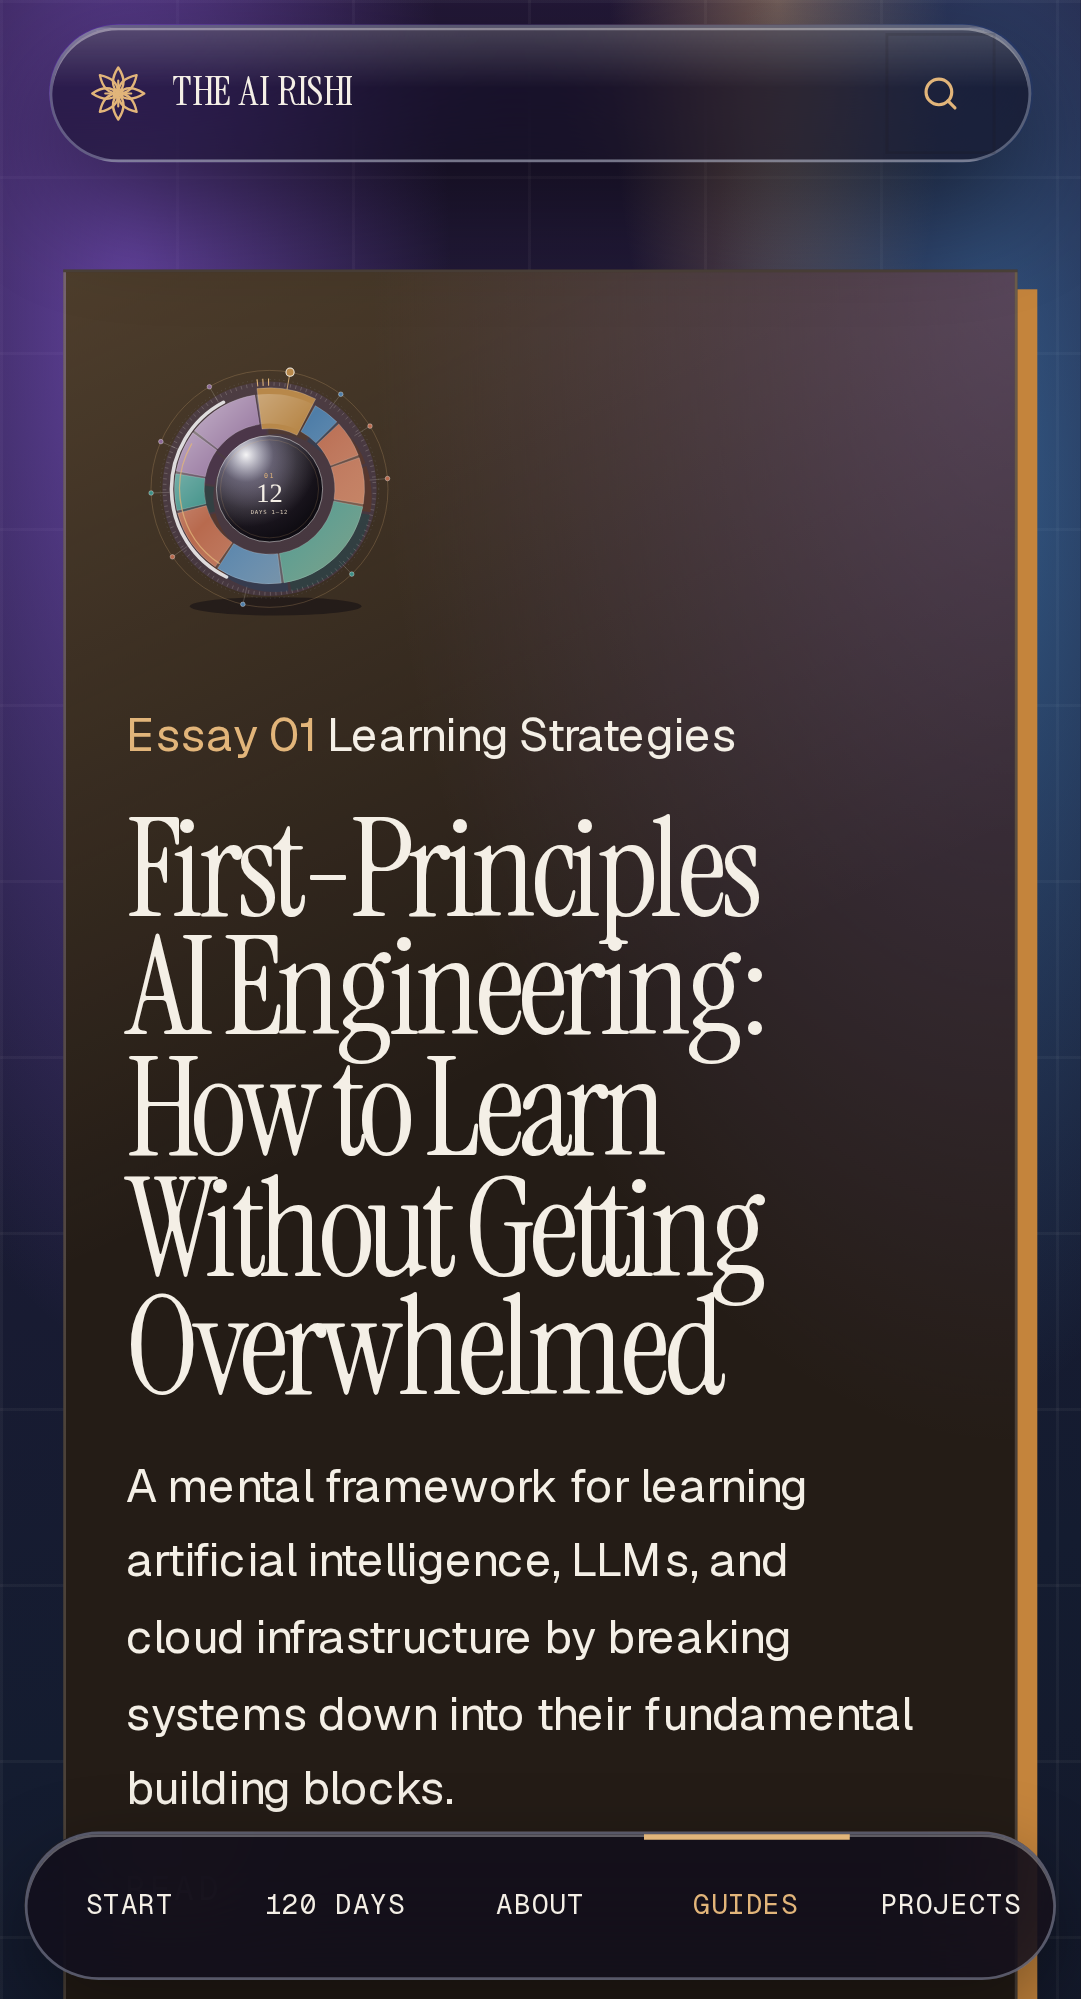
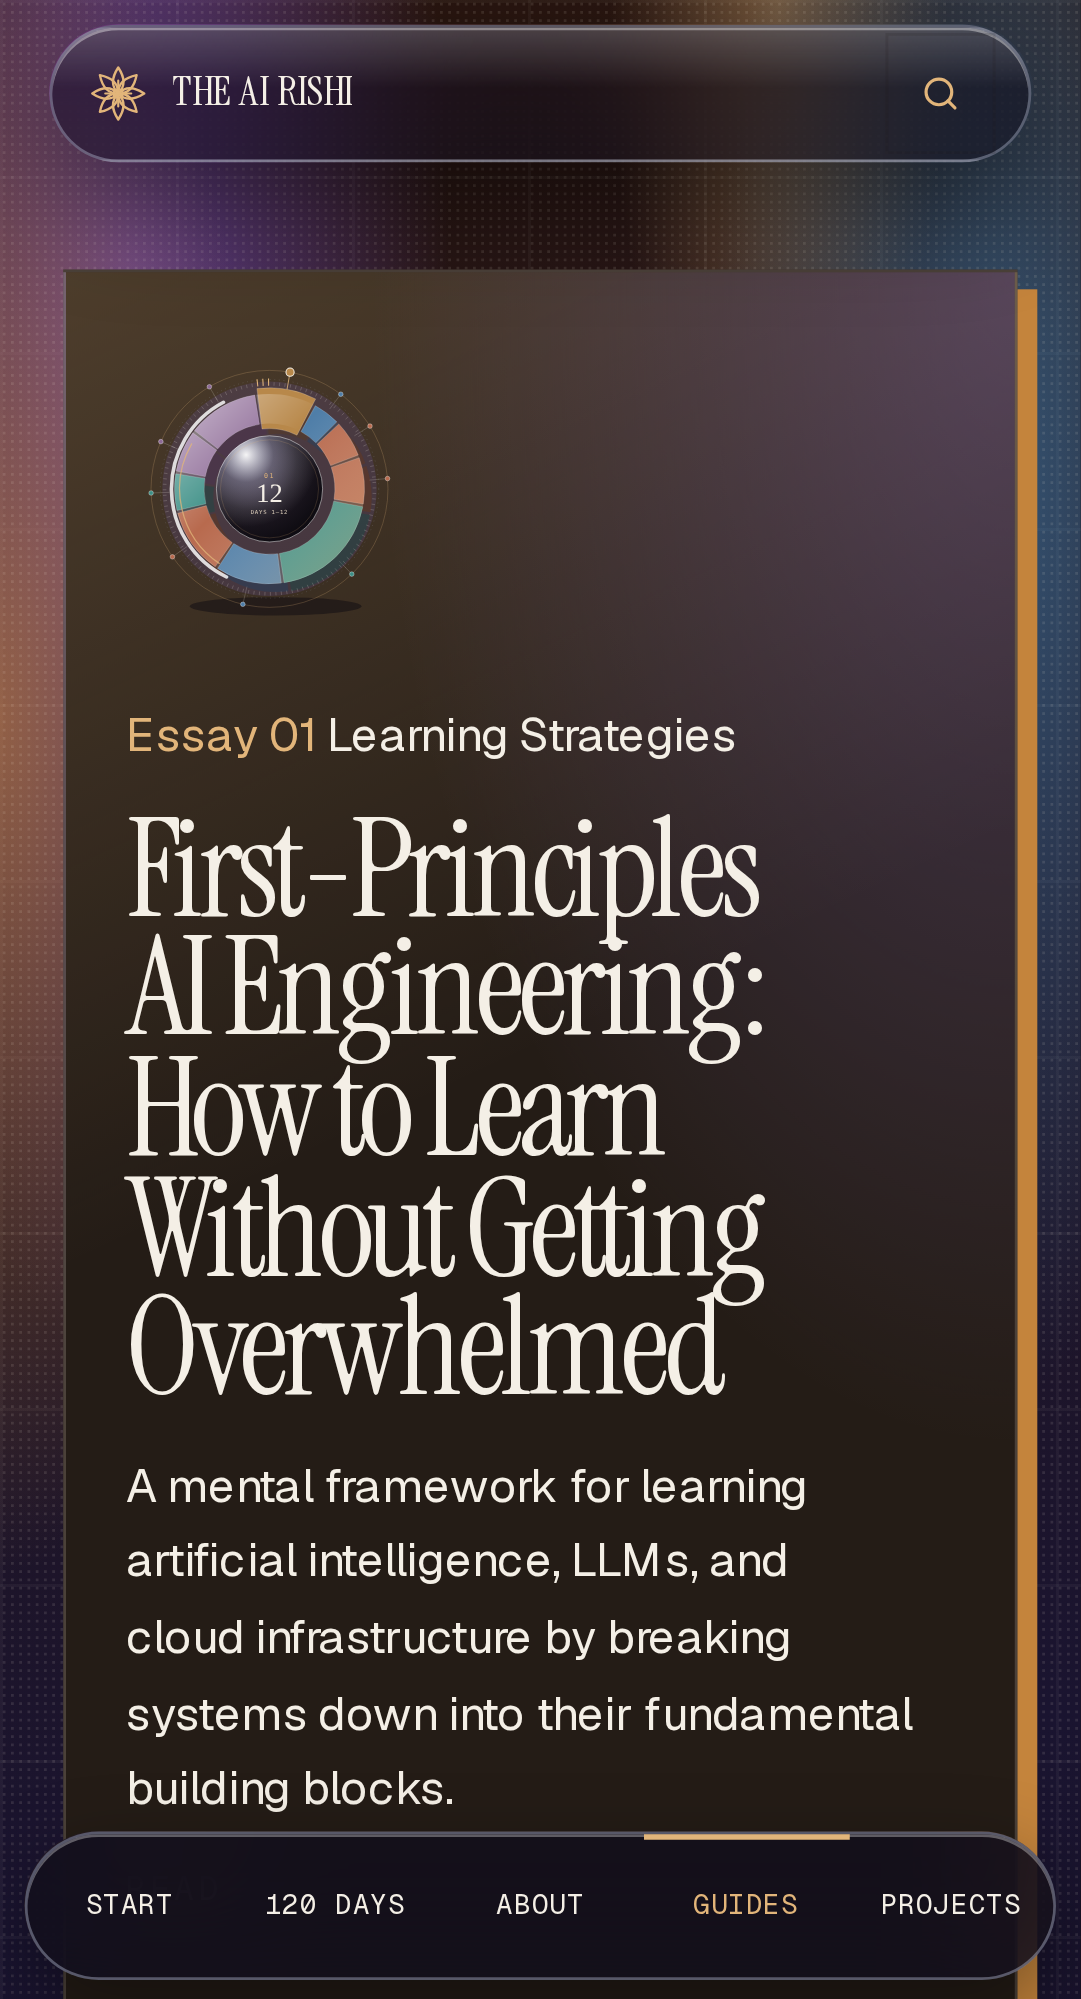
feat(experience): light every route as a scene
Amber key light and grain sit behind the whole site. Topics open on a dark mast, lessons take a phase edge, essays and labs keep paper, and the closing chapter is a dark plate. No WebGL and no copied template.

diff --git a/app/world.css b/app/world.css
@@ -682,6 +682,7 @@ html,
 body.site-ground {
   background-color: var(--field-night);
   background-image:
+    radial-gradient(ellipse 42% 36% at 0% 18%, rgba(226, 150, 60, 0.5), transparent 60%),
     radial-gradient(ellipse 48% 42% at 12% 8%, rgba(138, 92, 220, 0.62), transparent 62%),
     radial-gradient(ellipse 46% 40% at 92% 12%, rgba(70, 150, 210, 0.5), transparent 58%),
     radial-gradient(ellipse 28% 24% at 72% 0%, rgba(226, 181, 122, 0.42), transparent 56%),
@@ -689,10 +690,26 @@ body.site-ground {
     radial-gradient(ellipse 32% 28% at 4% 88%, rgba(196, 120, 180, 0.32), transparent 54%),
     linear-gradient(rgba(244, 239, 230, 0.045) 1px, transparent 1px),
     linear-gradient(90deg, rgba(244, 239, 230, 0.045) 1px, transparent 1px),
-    linear-gradient(168deg, #241838 0%, #141c30 42%, #120e16 100%);
-  background-size: auto, auto, auto, auto, auto, 64px 64px, 64px 64px, auto;
+    linear-gradient(168deg, #2a160e 0%, #1a1430 46%, #100e14 100%);
+  background-size: auto, auto, auto, auto, auto, auto, 64px 64px, 64px 64px, auto;
   background-attachment: fixed;
   color: #1a1714;
+}
+
+body.site-ground::before {
+  content: "";
+  position: fixed;
+  inset: 0;
+  z-index: 0;
+  pointer-events: none;
+  opacity: 0.2;
+  background-image: radial-gradient(rgba(255, 244, 224, 0.55) 0.55px, transparent 0.6px);
+  background-size: 3px 3px;
+}
+
+.site-shell {
+  position: relative;
+  z-index: 1;
 }
 
 .site-shell,
@@ -913,6 +930,27 @@ main.mode-room > section:not(.chapter):not([data-layout="rail"]) {
   margin-left: auto;
   margin-right: 0.75rem;
   border-radius: 0.35rem 1.4rem 1.4rem 1.4rem;
+  background-color: #1a1424;
+  background-image:
+    radial-gradient(ellipse at 0% 0%, rgba(226, 170, 80, 0.28), transparent 52%);
+  color: #f4efe6;
+  border-color: rgba(226, 190, 140, 0.28);
+}
+
+.chapter[data-layout="split"][data-accent="ochre"] :is(h2, p, .chapter-copy, .chapter-kicker, .chapter-index) {
+  color: #f4efe6;
+}
+
+.chapter[data-layout="split"][data-accent="ochre"] .chapter-index,
+.chapter[data-layout="split"][data-accent="ochre"] .text-gold,
+.chapter[data-layout="split"][data-accent="ochre"] a.text-gold {
+  color: #e2b57a;
+}
+
+.chapter[data-layout="split"][data-accent="ochre"] .btn-primary {
+  background-color: #e2b57a;
+  background-image: none;
+  color: #1a1714;
 }
 
 .chapter[data-layout="split"][data-accent="ink"] {
@@ -997,11 +1035,26 @@ main.mode-room > section:not(.chapter):not([data-layout="rail"]) {
   margin-inline: auto;
 }
 
+.chapter:not([data-layout="rail"]) h2 {
+  font-size: clamp(2.15rem, 4.4vw, 3.5rem);
+  line-height: 0.94;
+  letter-spacing: -0.035em;
+}
+
 .poster-list a {
+  display: grid;
+  grid-template-columns: 3rem minmax(0, 1fr);
+  gap: 0.35rem 0.85rem;
+  align-items: start;
   margin-top: 0.65rem;
   padding: 1rem 0.95rem;
-  border-radius: 0.9rem;
+  border-radius: 0.35rem 1rem 1rem 0.35rem;
+  border-left: 3px solid #c4843c;
   background-color: rgba(246, 241, 231, 0.9);
+}
+
+[data-tone="engineering"] .poster-list a {
+  border-left-color: #1d6a62;
 }
 
 [data-tone="brand"] .story-reel > .story-chapter:not(:first-child) {
@@ -1014,6 +1067,40 @@ main.mode-room > section:not(.chapter):not([data-layout="rail"]) {
 [data-tone="brand"] .story-reel > .story-chapter:not(:first-child) h2,
 [data-tone="brand"] .story-reel > .story-chapter:not(:first-child) .story-num {
   color: #1a1714;
+}
+
+[data-tone="brand"] .story-reel > .story-chapter:not(:first-child) h2 {
+  font-size: clamp(2.1rem, 4vw, 3.2rem);
+  line-height: 0.96;
+  letter-spacing: -0.03em;
+}
+
+.route-mast {
+  width: min(100% - 1.25rem, 72rem);
+  margin: 0.85rem auto 0;
+  padding: 2rem 1.35rem 1.8rem;
+  border-radius: 1.35rem;
+  background-color: #161222;
+  background-image:
+    radial-gradient(ellipse at 0% 0%, rgba(226, 170, 80, 0.34), transparent 52%),
+    radial-gradient(ellipse at 100% 10%, rgba(120, 90, 200, 0.3), transparent 48%);
+  color: #f4efe6;
+  border: 1px solid rgba(230, 220, 255, 0.24);
+  box-shadow:
+    inset 0 1px 0 rgba(255, 255, 255, 0.28),
+    0.65rem 0.65rem 0 #6d4520;
+}
+
+.route-mast :is(h1, p, .kicker) {
+  color: #f4efe6;
+}
+
+.route-mast :is(.text-cream\/40, .text-cream\/45, .text-cream\/55, .text-cream\/50) {
+  color: #d9cbb8;
+}
+
+.route-mast :is(.text-gold, .text-gold\/70, .text-gold\/80, a) {
+  color: #e2b57a;
 }
 
 [data-tone="brand"] .story-reel > .story-chapter:not(:first-child) p {
@@ -1051,6 +1138,13 @@ article.read-room {
   padding: 1.7rem 1.25rem 2.8rem;
 }
 
+article.read-room h1,
+article.artefact-index h1 {
+  font-size: clamp(2.6rem, 6vw, 4.4rem);
+  line-height: 0.92;
+  letter-spacing: -0.04em;
+}
+
 article.artefact-index {
   border-top: 8px solid #1d6a62;
   margin-top: 1.15rem;
@@ -1059,6 +1153,7 @@ article.artefact-index {
 
 main.focus-bay #main-content {
   padding: 1.25rem 1.1rem 1.9rem;
+  border-top: 7px solid var(--phase-pigment, #c4843c);
 }
 
 .plan-tools,

diff --git a/app/topics/[topic]/page.tsx b/app/topics/[topic]/page.tsx
@@ -14,7 +14,6 @@ import {
 } from "@/lib/config";
 import { getLiveCatalog } from "@/lib/catalog";
 import { getRouteTopics, topicRouteState } from "@/lib/visibility-core";
-import { topicTone } from "@/lib/palette";
 import { canonicalAlternates } from "@/lib/urls";
 import { indexRobots, isTopicIndexable } from "@/lib/indexing";
 
@@ -62,12 +61,11 @@ export default async function TopicPage({ params }: TopicPageProps) {
   const brand = getBrandConfig();
   const copy = getPlatformCopy();
   const isEmpty = items.length === 0;
-  const tone = topicTone(config.color, 0, 1);
 
   return (
     <PageShell navItems={mainNav} footerNav={footerNav} brand={brand} copy={copy}>
-      <section className="glass-sheet mx-auto mt-6 max-w-4xl px-4 py-12 sm:px-6 sm:py-16 lg:px-8">
-        <p className="kicker" style={{ color: tone.accent }}>
+      <section className="route-mast">
+        <p className="kicker">
           {config.category}
         </p>
         <h1 className="mt-4 font-serif text-5xl leading-[0.95] tracking-[0.01em] text-cream sm:text-7xl">
